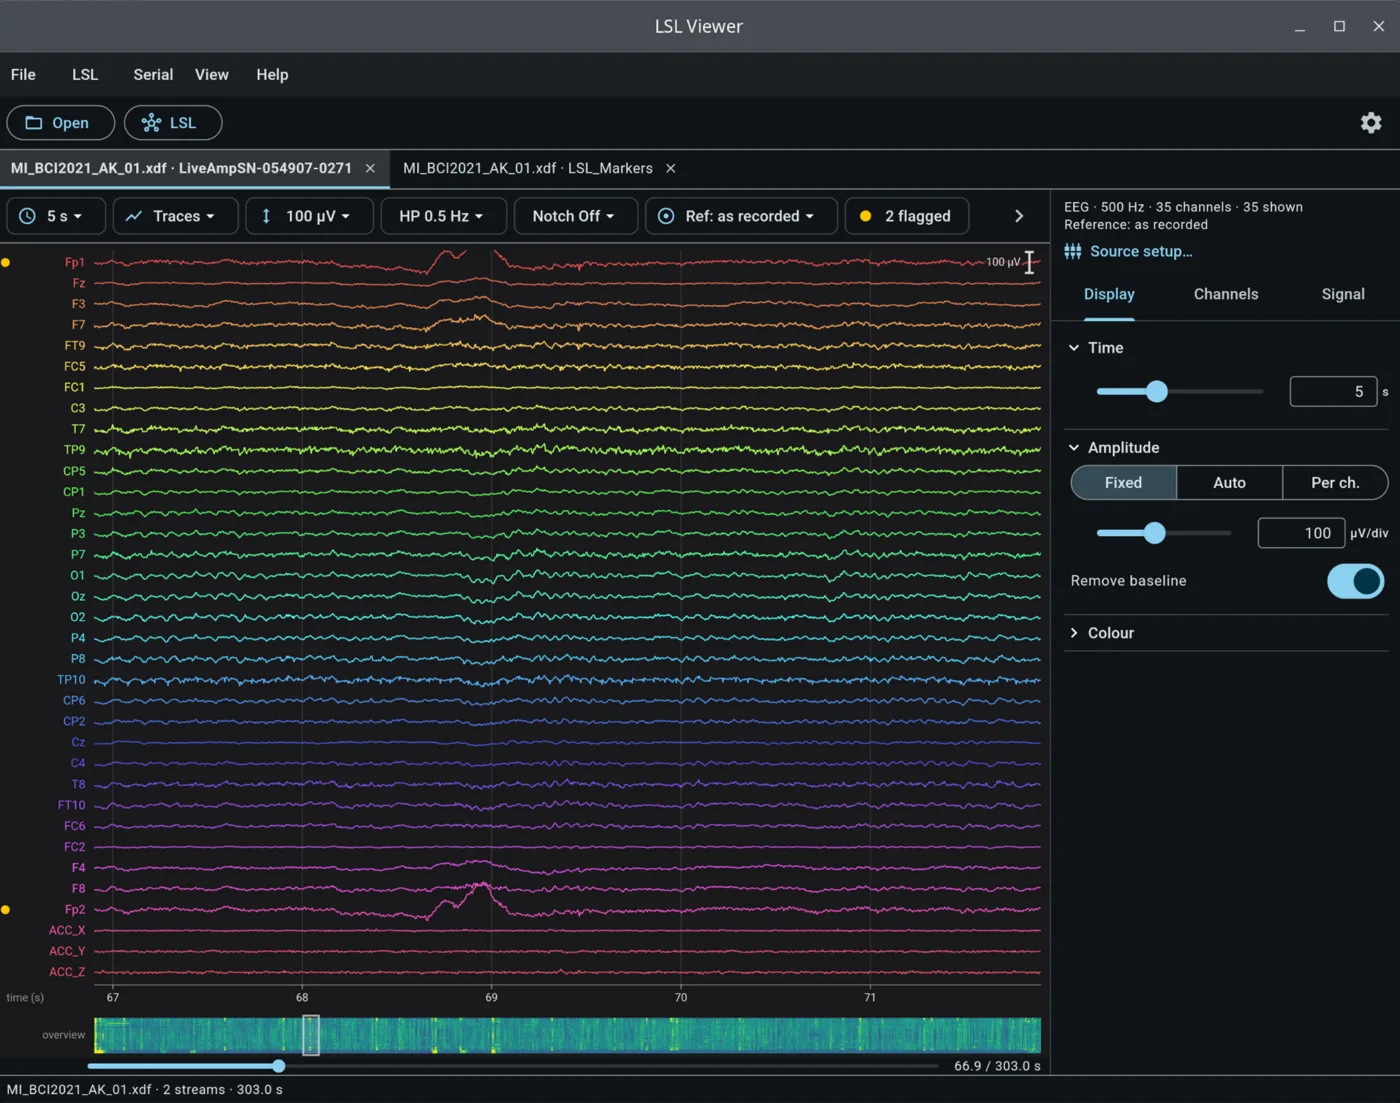
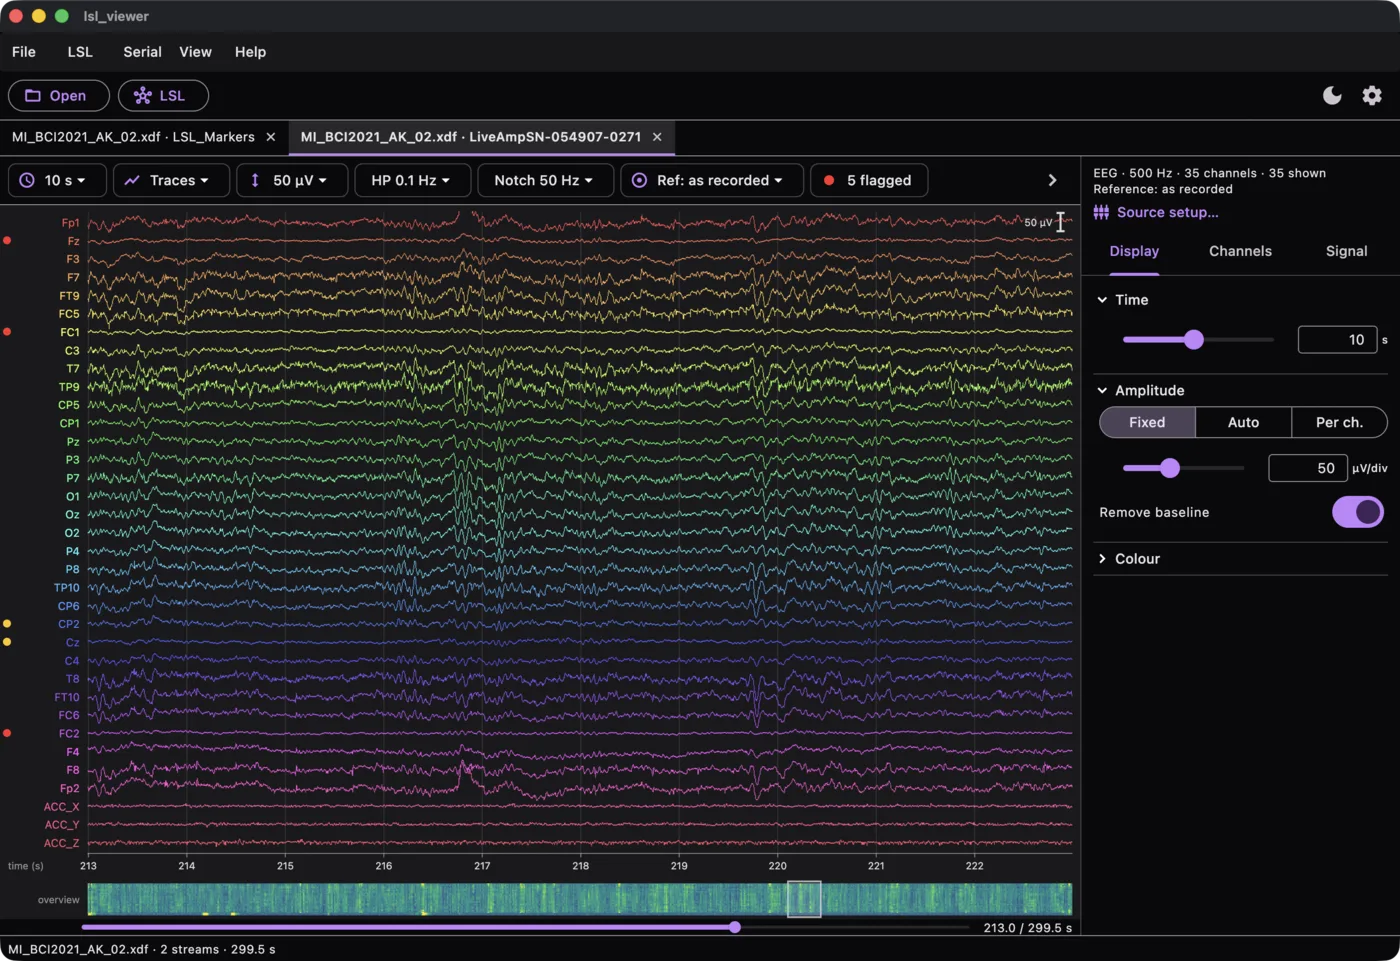
update to new structure

diff --git a/src/lib/content.ts b/src/lib/content.ts
@@ -28,6 +28,9 @@ export interface Section {
 const gh = 'https://github.com/NexusDynamic';
 const monorepo = `${gh}/liblsl.dart`;
 const pkg = (name: string) => `${monorepo}/tree/main/packages/${name}`;
+const app = (name: string) => `${monorepo}/tree/main/apps/${name}`;
+const releases = (name: string) => `${monorepo}/releases?q=${name}&expanded=true`;
+const docs = 'https://nexusdynamic.org/liblsl.dart';
 const pub = (name: string) => `https://pub.dev/packages/${name}`;
 
 export const site = {
@@ -53,12 +56,14 @@ export const nav: Link[] = [
 	{ label: 'Game', href: '#rise-together' },
 	{ label: 'Packages', href: '#packages' },
 	{ label: 'Timing', href: '#timing' },
-	{ label: 'Research', href: '#research' }
+	{ label: 'Research', href: '#research' },
+	{ label: 'Guides', href: `${docs}/guides.html` }
 ];
 
 export const heroLinks: Link[] = [
-	{ label: 'Open LSL Viewer', href: 'https://nexusdynamic.org/liblsl.dart/lsl_viewer/' },
+	{ label: 'Open LSL Viewer', href: `${docs}/lsl_viewer/` },
 	{ label: 'Play Rise Together', href: 'https://rt-lobby.nexusdynamic.org' },
+	{ label: 'Guides', href: `${docs}/guides.html` },
 	{ label: 'GitHub', href: gh }
 ];
 
@@ -75,13 +80,13 @@ export const featured: (Project & { id: string; eyebrow: string })[] = [
 			src: '/img/lsl-viewer.webp',
 			alt: 'LSL Viewer showing 35 channels of EEG from an XDF recording'
 		},
-		icon: '/img/lsl-viewer-icon.webp',
+		icon: '/nexusdynamic.svg',
 		links: [
-			{ label: 'Open the web app', href: 'https://nexusdynamic.org/liblsl.dart/lsl_viewer/' },
-			{ label: 'Downloads', href: `${monorepo}/releases?q=lsl_viewer&expanded=true` },
-			{ label: 'Documentation', href: 'https://nexusdynamic.org/liblsl.dart/' },
-			{ label: 'Bridge and relay guide', href: 'https://nexusdynamic.org/liblsl.dart/relay.html' },
-			{ label: 'Source', href: `${monorepo}/tree/main/apps/lsl_viewer` }
+			{ label: 'Open the web app', href: `${docs}/lsl_viewer/` },
+			{ label: 'Downloads', href: releases('lsl_viewer') },
+			{ label: 'liblsl.dart website', href: `${docs}/` },
+			{ label: 'Bridge and relay guide', href: `${docs}/relay.html` },
+			{ label: 'Source', href: app('lsl_viewer') }
 		]
 	},
 	{
@@ -111,9 +116,10 @@ export const sections: Section[] = [
 			{
 				name: 'liblsl',
 				description:
-					'Dart and Flutter bindings for liblsl, with full parity with the C library. Makes LSL integration into your app a breeze.',
+					'A Dart and Flutter interface to the C++ liblsl library, with full parity with the C API, for sending and receiving LSL streams in an application.',
 				links: [
 					{ label: 'pub.dev', href: pub('liblsl') },
+					{ label: 'Guide', href: `${docs}/streaming-between-devices.html` },
 					{ label: 'Source', href: pkg('liblsl') },
 					{ label: 'Cite (DOI)', href: site.citation.href }
 				]
@@ -137,12 +143,22 @@ export const sections: Section[] = [
 				]
 			},
 			{
+				name: 'signal_viewer',
+				description:
+					'The viewer behind LSL Viewer as a Flutter library, with source providers for LSL streams, XDF recordings and serial devices, for applications that display their own data.',
+				links: [
+					{ label: 'pub.dev', href: pub('signal_viewer') },
+					{ label: 'Source', href: pkg('signal_viewer') }
+				]
+			},
+			{
 				name: 'lsl_tools',
 				description:
 					'The lsl command line tool: list, record to XDF, share across networks, bridge, relay, replay and generate LSL streams.',
 				links: [
+					{ label: 'pub.dev', href: pub('lsl_tools') },
 					{ label: 'Source', href: pkg('lsl_tools') },
-					{ label: 'Downloads', href: `${monorepo}/releases?q=lsl_viewer&expanded=true` }
+					{ label: 'Downloads', href: releases('lsl_viewer') }
 				]
 			},
 			{
@@ -150,6 +166,7 @@ export const sections: Section[] = [
 				description:
 					'Coordinate experiments across devices: coordinator election, membership, heartbeats and synchronised data streams over LSL, a WebSocket hub or peer-to-peer WebRTC.',
 				links: [
+					{ label: 'Guide', href: `${docs}/coordinated-experiment.html` },
 					{ label: 'peer_coordinator', href: pub('peer_coordinator') },
 					{ label: 'liblsl_coordinator', href: pub('liblsl_coordinator') },
 					{ label: 'webrtc_coordinator', href: pub('webrtc_coordinator') }
@@ -161,6 +178,7 @@ export const sections: Section[] = [
 					'Serial devices from Dart on desktop and in the browser (WebSerial). The OpenBCI Cyton driver is built on it.',
 				links: [
 					{ label: 'pub.dev', href: pub('serial_transport') },
+					{ label: 'openbci_cyton', href: pub('openbci_cyton') },
 					{ label: 'Source', href: pkg('serial_transport') }
 				]
 			}
@@ -173,15 +191,35 @@ export const sections: Section[] = [
 			'Validate latency and synchronisation in your own lab, on the devices you plan to use, before you collect any data.',
 		projects: [
 			{
-				name: 'liblsl_timing',
+				name: 'transport_timing',
 				description:
-					'An app for multi-device latency, synchronisation and interactive timing tests, with devices coordinated automatically over LSL.',
-				links: [{ label: 'Source', href: pkg('liblsl_timing') }]
+					'An app that measures one-way latency, jitter, loss and clock drift between devices over LSL, WebSocket and WebRTC, with the devices coordinated automatically.',
+				tags: ['Windows', 'macOS', 'Linux', 'Android'],
+				links: [
+					{ label: 'Guide', href: `${docs}/validating-timing.html` },
+					{ label: 'Downloads', href: releases('transport_timing') },
+					{ label: 'Source', href: app('transport_timing') }
+				]
 			},
 			{
-				name: 'liblsl_analysis',
-				description: 'Analysis of the results from liblsl_timing tests.',
-				links: [{ label: 'Source', href: pkg('liblsl_analysis') }]
+				name: 'transport_timing_analysis',
+				description:
+					'Collates and visualises the logs of a timing run from all devices: latency distributions, loss, clock offsets and drift for every pair of devices.',
+				tags: ['Web', 'Windows', 'macOS', 'Linux', 'Android'],
+				links: [
+					{ label: 'Open the web app', href: `${docs}/transport_timing_analysis/` },
+					{ label: 'Downloads', href: releases('transport_timing_analysis') },
+					{ label: 'Source', href: app('transport_timing_analysis') }
+				]
+			},
+			{
+				name: 'timing_core',
+				description:
+					'The record format and analysis behind both apps. The logs are XDF files, so they also open in other XDF tools.',
+				links: [
+					{ label: 'pub.dev', href: pub('timing_core') },
+					{ label: 'Source', href: pkg('timing_core') }
+				]
 			},
 			{
 				name: 'button_display_latency',

diff --git a/src/lib/components/FeatureCard.svelte b/src/lib/components/FeatureCard.svelte
@@ -43,7 +43,7 @@
 					alt={project.image.alt}
 					loading="lazy"
 					width="1400"
-					height="1103"
+					height="961"
 					class="h-auto w-full rounded-lg border border-white/10"
 				/>
 			</a>
